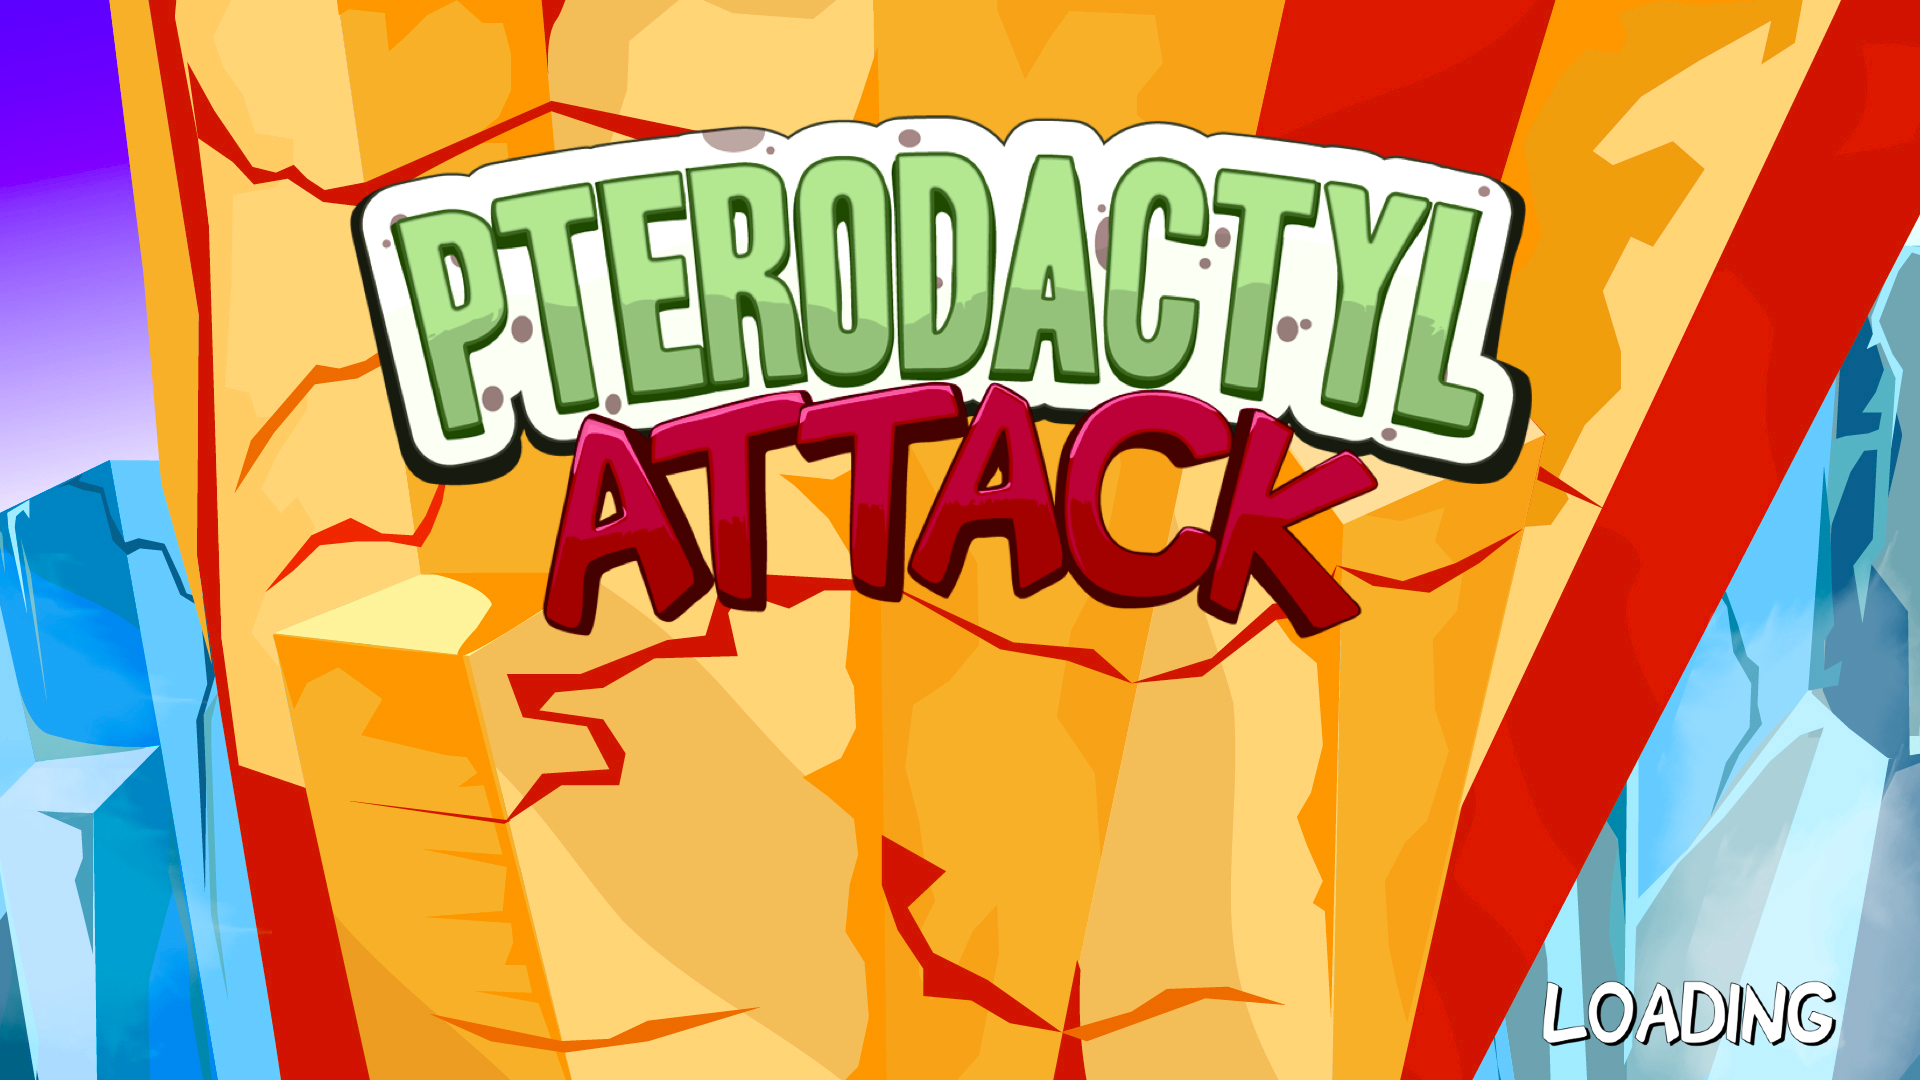
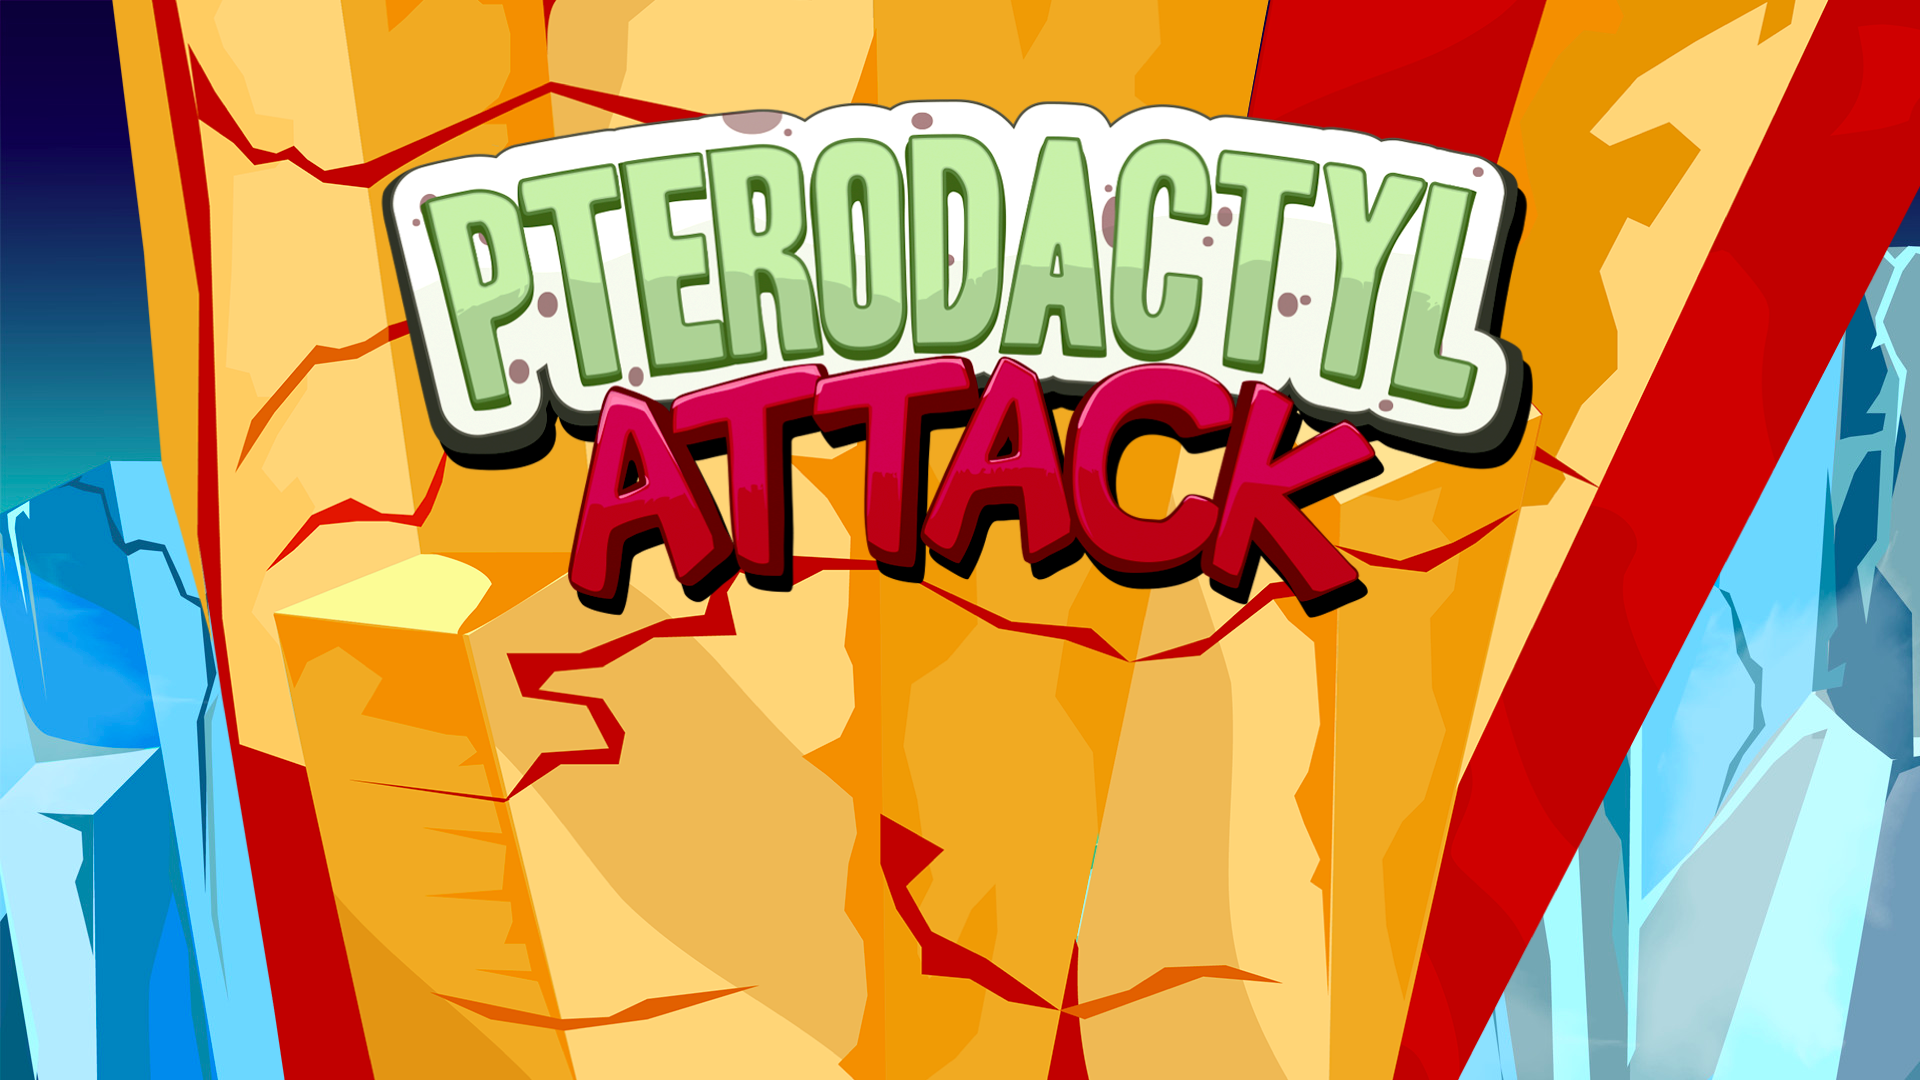
added new loading screen and title drop

diff --git a/src/scene_title.js b/src/scene_title.js
@@ -13,17 +13,31 @@ Ptero.scene_title = (function(){
 		Ptero.background.goToIdle();
 
 		buttonList = new Ptero.ButtonList(Ptero.assets.json['btns_loading']);
+		Ptero.audio.play('theme');
+		time = 0;
+		vel = 0;
+		displacement = 0;
 	}
 
+	var time;
+	var accel = 8000;
+	var displacement;
+
 	function update(dt) {
-		// this is only update once, since we're using to play the music and to initially load the pterodactyls for the main menu.
-		Ptero.setScene(Ptero.scene_menu);
-		Ptero.audio.play('theme');
+		time += dt;
+		vel += accel*dt;
+		displacement += vel*dt;
+		if (time > 0.5) {
+			Ptero.setScene(Ptero.scene_menu);
+		}
 	}
 
 	function draw(ctx) {
 		Ptero.deferredSprites.draw(ctx);
+		ctx.save();
+		ctx.translate(0,displacement);
 		buttonList.draw(ctx);
+		ctx.restore();
 	}
 
 	return {

diff --git a/src/assets.js b/src/assets.js
@@ -50,6 +50,7 @@ Ptero.assets = (function(){
 
 		"btn_back"         : "img/buttons/btn_back.png",
 
+		"cliff" : "img/cliff.png",
 		"title" : "img/title.png",
 
 		"backplate_mountain" : "img/backplate_menu_mountain.png",
